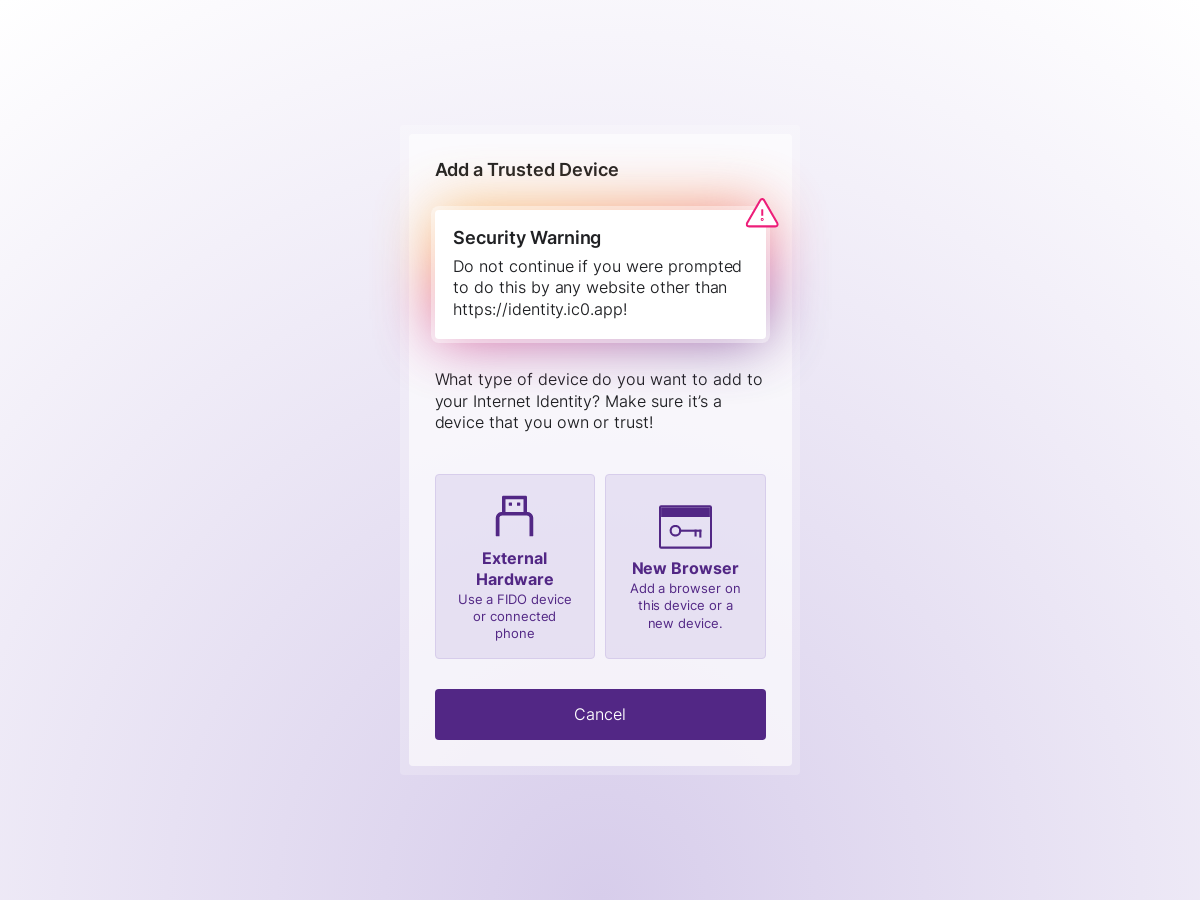
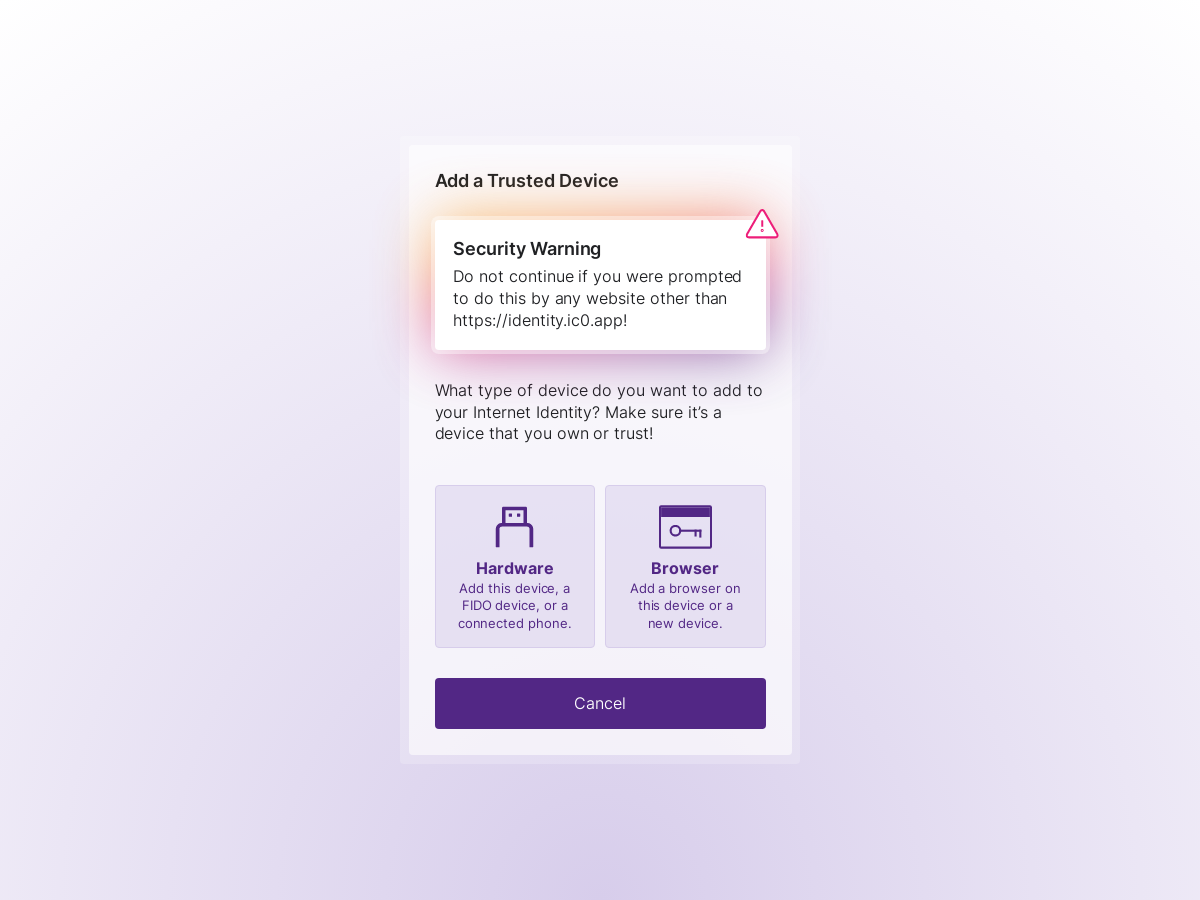
Clarify text when adding device (#1211)
* Clarify text when adding device

This simplifies the copy when showing the picking for adding a new
device by type.

* 🤖 Selenium screenshots auto-update

---------

diff --git a/src/frontend/src/flows/addDevice/manage/index.ts b/src/frontend/src/flows/addDevice/manage/index.ts
@@ -19,12 +19,14 @@ const pageContent = () => {
     <div class="l-horizontal l-stack">
       <button class="c-button c-button--secondary" id="local">
         <span class="flowIcon">${securityKeyIcon}</span>
-        <div class="t-strong">External Hardware</div>
-        <div class="t-weak">Use a FIDO device or connected phone</div>
+        <div class="t-strong">Hardware</div>
+        <div class="t-weak">
+          Add this device, a FIDO device, or a connected phone.
+        </div>
       </button>
       <button class="c-button c-button--secondary" id="remote">
         <span class="flowIcon">${browserIcon}</span>
-        <div class="t-strong">New Browser</div>
+        <div class="t-strong">Browser</div>
         <div class="t-weak">Add a browser on this device or a new device.</div>
       </button>
     </div>
